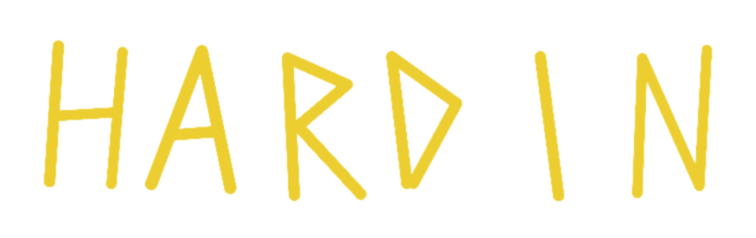
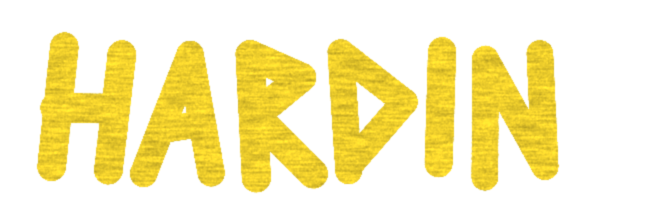
Collabs: Mizuno lettering in gritty SONDR caps, heel cross/Om, red toe with skull, black pair view
Claude-Session: https://claude.ai/code/session_0114D3hwBVCmsXTQfgBtgPvQ

Changed region(s): [[0.0299, 0.125, 0.9552, 0.875]]

diff --git a/site/public/collabs/mizuno/viewer.html b/site/public/collabs/mizuno/viewer.html
@@ -62,7 +62,7 @@
 <div id="osd"><span>SONDR × Mizuno Morelia Neo IV</span><span>By D·Hardin</span><span data-k="side">1 of 1</span></div>
 <button id="swap" type="button">Switch shoe</button>
 <div id="hint"></div>
-<script>window.SHOE_TEX={};window.SHOE_PLAIN={"len": 1.9012789726257324, "rot": 3.14159, "mirror": true, "x": -6.705713556227215e-05, "y": 0.23176820060637965, "z": -2.6492328972707924e-06, "decals": [{"tex": "art/red_tongue.png", "n": [-0.75, 0.66, 0], "c": [0.06, 0.33, -0.035], "w": 0.2, "h": 0.2, "depth": 0.08, "dot": 0.3, "r": [0.2462158203125, 0.46337890625, 0.3792724609375, 0.99951171875]}, {"tex": "art/heel_dhruv.png", "axis": "x", "n": [1, 0, 0], "c": [0.9, 0.36, -0.045], "w": 0.24, "h": 0.075, "r": [0.5465087890625, 0.76806640625, 0.7020263671875, 0.99951171875]}, {"tex": "art/red_dh.png", "n": [-0.1, 0.99, 0], "c": [-0.5, 0.005, -0.035], "w": 0.12, "h": 0.063, "depth": 0.06, "dot": 0.3, "r": [0.3814697265625, 0.73876953125, 0.5443115234375, 0.99951171875]}, {"tex": "art/red_vamp_sigs.png", "n": [-0.2, 0.98, 0], "c": [-0.72, -0.06, -0.035], "w": 0.2, "h": 0.15, "depth": 0.06, "dot": 0.3, "r": [0.0001220703125, 0.36669921875, 0.2440185546875, 0.99951171875]}], "lining": [0.07, 0.07, 0.07], "zc": -0.04, "atlas": "art/red_atlas.webp"};window.SHOE_PLAINS=[{"len": 1.9012789726257324, "rot": 3.14159, "mirror": true, "x": -6.705713556227215e-05, "y": 0.23176820060637965, "z": -2.6492328972707924e-06, "decals": [{"tex": "art/red_tongue.png", "n": [-0.75, 0.66, 0], "c": [0.06, 0.33, -0.035], "w": 0.2, "h": 0.2, "depth": 0.08, "dot": 0.3, "r": [0.2462158203125, 0.46337890625, 0.3792724609375, 0.99951171875]}, {"tex": "art/heel_dhruv.png", "axis": "x", "n": [1, 0, 0], "c": [0.9, 0.36, -0.045], "w": 0.24, "h": 0.075, "r": [0.5465087890625, 0.76806640625, 0.7020263671875, 0.99951171875]}, {"tex": "art/red_dh.png", "n": [-0.1, 0.99, 0], "c": [-0.5, 0.005, -0.035], "w": 0.12, "h": 0.063, "depth": 0.06, "dot": 0.3, "r": [0.3814697265625, 0.73876953125, 0.5443115234375, 0.99951171875]}, {"tex": "art/red_vamp_sigs.png", "n": [-0.2, 0.98, 0], "c": [-0.72, -0.06, -0.035], "w": 0.2, "h": 0.15, "depth": 0.06, "dot": 0.3, "r": [0.0001220703125, 0.36669921875, 0.2440185546875, 0.99951171875]}], "lining": [0.07, 0.07, 0.07], "zc": -0.04, "atlas": "art/red_atlas.webp"}, {"len": 1.9012789726257324, "rot": 3.14159, "mirror": false, "x": -6.705714962128253e-05, "y": 0.23176820060637965, "z": 2.6488770129724855e-06, "decals": [{"tex": "art/green_tongue.png", "n": [-0.75, 0.66, 0], "c": [0.06, 0.33, -0.035], "w": 0.2, "h": 0.2, "depth": 0.08, "dot": 0.3, "r": [0.0001220703125, 0.31689453125, 0.1766357421875, 0.99951171875]}, {"tex": "art/heel_hardin.png", "axis": "x", "n": [1, 0, 0], "c": [0.9, 0.36, -0.045], "w": 0.24, "h": 0.075, "r": [0.6680908203125, 0.76806640625, 0.8524169921875, 0.99951171875]}, {"tex": "art/green_dh.png", "n": [-0.1, 0.99, 0], "c": [-0.5, 0.005, -0.035], "w": 0.12, "h": 0.063, "depth": 0.06, "dot": 0.3, "r": [0.5294189453125, 0.71533203125, 0.6658935546875, 0.99951171875]}, {"tex": "art/green_vamp_sigs.png", "n": [-0.2, 0.98, 0], "c": [-0.72, -0.06, -0.035], "w": 0.2, "h": 0.15, "depth": 0.06, "dot": 0.3, "r": [0.1788330078125, 0.36669921875, 0.4227294921875, 0.99951171875]}, {"tex": "art/green_om_drawn.png", "axis": "x", "n": [1, 0, 0], "c": [0.94, 0.15, -0.045], "w": 0.16, "h": 0.16, "r": [0.4249267578125, 0.59033203125, 0.5272216796875, 0.99951171875]}], "lining": [0.07, 0.07, 0.07], "zc": -0.04, "atlas": "art/green_atlas.webp"}];window.SHOE_GLB_URLS=["boot.glb","boot.glb"];window.SHOE_ART=[{"pz": "art/god.webp", "nz": "art/flair.webp", "range": [-0.951, 0.951, -0.441, 0.447], "toeFade": [-5, -4.9], "darkStuds": 1}, {"pz": "art/rings.webp", "nz": "art/sondr.webp", "range": [-0.951, 0.951, -0.441, 0.447], "toeFade": [-5, -4.9], "darkStuds": 1}];</script>
+<script>window.SHOE_TEX={};window.SHOE_PLAIN={"len": 1.9012789726257324, "rot": 3.14159, "mirror": true, "x": -6.705713556227215e-05, "y": 0.23176820060637965, "z": -2.6492328972707924e-06, "decals": [{"tex": "art/red_tongue.png", "n": [-0.75, 0.66, 0], "c": [0.06, 0.33, -0.035], "w": 0.2, "h": 0.2, "depth": 0.08, "dot": 0.3, "r": [0.4639892578125, 0.46337890625, 0.5970458984375, 0.99951171875]}, {"tex": "art/heel_dhruv.png", "axis": "x", "n": [1, 0, 0], "c": [0.9, 0.355, -0.035], "w": 0.27, "h": 0.075, "r": [0.7642822265625, 0.78173828125, 0.9041748046875, 0.99951171875]}, {"tex": "art/red_dh.png", "n": [-0.25, 0.97, 0], "c": [-0.485, 0.005, -0.035], "w": 0.13, "h": 0.068, "depth": 0.06, "dot": 0.3, "r": [0.5992431640625, 0.73876953125, 0.7620849609375, 0.99951171875]}, {"tex": "art/red_vamp_sigs_bold.png", "n": [-0.15, 0.99, 0], "c": [-0.585, -0.025, -0.035], "w": 0.21, "h": 0.14, "depth": 0.06, "dot": 0.3, "r": [0.1427001953125, 0.36669921875, 0.3865966796875, 0.99951171875]}, {"tex": "art/red_cross.png", "axis": "x", "n": [1, 0, 0], "c": [0.92, 0.02, -0.03], "w": 0.29, "h": 0.54, "r": [0.3887939453125, 0.45361328125, 0.4617919921875, 0.99951171875]}, {"tex": "art/red_skull_toe.png", "n": [-0.45, 0.89, 0], "c": [-0.83, -0.075, -0.035], "w": 0.2, "h": 0.22, "depth": 0.07, "dot": 0.25, "r": [0.0001220703125, 0.31201171875, 0.1405029296875, 0.99951171875]}], "lining": [0.07, 0.07, 0.07], "zc": -0.04, "atlas": "art/red_atlas.webp"};window.SHOE_PLAINS=[{"len": 1.9012789726257324, "rot": 3.14159, "mirror": true, "x": -6.705713556227215e-05, "y": 0.23176820060637965, "z": -2.6492328972707924e-06, "decals": [{"tex": "art/red_tongue.png", "n": [-0.75, 0.66, 0], "c": [0.06, 0.33, -0.035], "w": 0.2, "h": 0.2, "depth": 0.08, "dot": 0.3, "r": [0.4639892578125, 0.46337890625, 0.5970458984375, 0.99951171875]}, {"tex": "art/heel_dhruv.png", "axis": "x", "n": [1, 0, 0], "c": [0.9, 0.355, -0.035], "w": 0.27, "h": 0.075, "r": [0.7642822265625, 0.78173828125, 0.9041748046875, 0.99951171875]}, {"tex": "art/red_dh.png", "n": [-0.25, 0.97, 0], "c": [-0.485, 0.005, -0.035], "w": 0.13, "h": 0.068, "depth": 0.06, "dot": 0.3, "r": [0.5992431640625, 0.73876953125, 0.7620849609375, 0.99951171875]}, {"tex": "art/red_vamp_sigs_bold.png", "n": [-0.15, 0.99, 0], "c": [-0.585, -0.025, -0.035], "w": 0.21, "h": 0.14, "depth": 0.06, "dot": 0.3, "r": [0.1427001953125, 0.36669921875, 0.3865966796875, 0.99951171875]}, {"tex": "art/red_cross.png", "axis": "x", "n": [1, 0, 0], "c": [0.92, 0.02, -0.03], "w": 0.29, "h": 0.54, "r": [0.3887939453125, 0.45361328125, 0.4617919921875, 0.99951171875]}, {"tex": "art/red_skull_toe.png", "n": [-0.45, 0.89, 0], "c": [-0.83, -0.075, -0.035], "w": 0.2, "h": 0.22, "depth": 0.07, "dot": 0.25, "r": [0.0001220703125, 0.31201171875, 0.1405029296875, 0.99951171875]}], "lining": [0.07, 0.07, 0.07], "zc": -0.04, "atlas": "art/red_atlas.webp"}, {"len": 1.9012789726257324, "rot": 3.14159, "mirror": false, "x": -6.705714962128253e-05, "y": 0.23176820060637965, "z": 2.6488770129724855e-06, "decals": [{"tex": "art/green_tongue.png", "n": [-0.75, 0.66, 0], "c": [0.06, 0.33, -0.035], "w": 0.2, "h": 0.2, "depth": 0.08, "dot": 0.3, "r": [0.0001220703125, 0.31689453125, 0.1766357421875, 0.99951171875]}, {"tex": "art/heel_hardin.png", "axis": "x", "n": [1, 0, 0], "c": [0.9, 0.355, -0.035], "w": 0.27, "h": 0.075, "r": [0.6507568359375, 0.78173828125, 0.8140869140625, 0.99951171875]}, {"tex": "art/green_dh.png", "n": [-0.25, 0.97, 0], "c": [-0.485, 0.005, -0.035], "w": 0.13, "h": 0.068, "depth": 0.06, "dot": 0.3, "r": [0.5120849609375, 0.71533203125, 0.6485595703125, 0.99951171875]}, {"tex": "art/green_vamp_sigs_bold.png", "n": [-0.15, 0.99, 0], "c": [-0.585, -0.025, -0.035], "w": 0.21, "h": 0.14, "depth": 0.06, "dot": 0.3, "r": [0.1788330078125, 0.36669921875, 0.4227294921875, 0.99951171875]}, {"tex": "art/green_om_bold.png", "axis": "x", "n": [1, 0, 0], "c": [0.92, 0.03, -0.03], "w": 0.29, "h": 0.5, "r": [0.4249267578125, 0.61083984375, 0.5098876953125, 0.99951171875]}], "lining": [0.07, 0.07, 0.07], "zc": -0.04, "atlas": "art/green_atlas.webp"}];window.SHOE_GLB_URLS=["boot.glb","boot.glb"];window.SHOE_PAIR_DARK=true;window.SHOE_ART=[{"pz": "art/god.webp", "nz": "art/flair.webp", "range": [-0.951, 0.951, -0.441, 0.447], "toeFade": [-5, -4.9], "darkStuds": 1, "toeRed": [-0.72, -0.66]}, {"pz": "art/rings.webp", "nz": "art/sondr.webp", "range": [-0.951, 0.951, -0.441, 0.447], "toeFade": [-5, -4.9], "darkStuds": 1}];</script>
 <script src="viewer.js"></script>
 <script>(function(){function fit(){var c=window.__shoe&&__shoe.camera;if(!c)return false;var a=innerWidth/Math.max(1,innerHeight);c.zoom=Math.min(1,a/1.4);c.updateProjectionMatrix();return true}var i=setInterval(function(){if(fit())clearInterval(i)},300);addEventListener("resize",function(){setTimeout(fit,50)});})();</script>
 </body>

diff --git a/site/public/collabs/mizuno/viewer.js b/site/public/collabs/mizuno/viewer.js
@@ -4278,11 +4278,16 @@ uniform sampler2D uArtP, uArtN;`+Object.keys(h).filter(f=>h[f]).map(f=>" uniform
 `+u.fragmentShader.replace("#include <map_fragment>",`#include <map_fragment>
   { vec3 N = normalize(vArtN); vec2 auv = vec2((vArtPos.x - uArtR.x) / (uArtR.y - uArtR.x), (vArtPos.y - uArtR.z) / (uArtR.w - uArtR.z));
     vec4 ap = texture2D(uArtP, auv), an = texture2D(uArtN, auv);
+    vec3 base0 = diffuseColor.rgb;
     // this side was mirrored by the generator: start from clean white leather before the art goes on
     if (uBlankN > 0.5) diffuseColor.rgb = mix(diffuseColor.rgb, vec3(0.93, 0.93, 0.92), smoothstep(0.02, 0.2, -N.z));
     if (uBlankP > 0.5) diffuseColor.rgb = mix(diffuseColor.rgb, vec3(0.93, 0.93, 0.92), smoothstep(0.02, 0.2, N.z));
     float fx = smoothstep(uToeF.x, uToeF.y, vArtPos.x); float zc = ${(t.zc||0).toFixed(3)}; float hf = smoothstep(0.62, 0.78, vArtPos.x); float wp = mix(smoothstep(0.0, 0.12, N.z), smoothstep(0.25, 0.5, N.z), hf) * ap.a * fx * smoothstep(-0.03, 0.03, vArtPos.z - zc), wn = mix(smoothstep(0.0, 0.12, -N.z), smoothstep(0.25, 0.5, -N.z), hf) * an.a * fx * smoothstep(-0.03, 0.03, zc - vArtPos.z);
-    diffuseColor.rgb = mix(diffuseColor.rgb, ap.rgb, wp); diffuseColor.rgb = mix(diffuseColor.rgb, an.rgb, wn);${s.darkStuds?" diffuseColor.rgb *= mix(0.12, 1.0, smoothstep(-0.40, -0.35, vArtPos.y));":""}
+    diffuseColor.rgb = mix(diffuseColor.rgb, ap.rgb, wp); diffuseColor.rgb = mix(diffuseColor.rgb, an.rgb, wn);${s.toeRed?` { float wob = 0.03 * sin(vArtPos.z * 38.0 + 1.3) + 0.018 * sin(vArtPos.y * 61.0 + vArtPos.z * 23.0) + 0.01 * sin(vArtPos.z * 140.0); float tw = (1.0 - smoothstep(${s.toeRed[0].toFixed(3)}, ${s.toeRed[1].toFixed(3)}, vArtPos.x + wob)) * smoothstep(-0.34, -0.29, vArtPos.y) * step(0.0, dot(N, N));
+      float l = dot(base0, vec3(0.299, 0.587, 0.114)); float g = fract(sin(dot(floor(vArtPos.xz * 900.0), vec2(12.9898, 78.233))) * 43758.5453);
+      float st = 0.5 + 0.5 * sin(vArtPos.z * 210.0 + vArtPos.x * 35.0 + sin(vArtPos.x * 90.0) * 2.0 + g * 2.5);
+      vec3 mk = vec3(0.52, 0.03, 0.035) * (0.62 + 4.5 * l) * (0.88 + 0.14 * st) * (0.92 + 0.12 * g);
+      diffuseColor.rgb = mix(diffuseColor.rgb, min(mk, vec3(0.95, 0.2, 0.2)), tw); }`:""}${s.darkStuds?" diffuseColor.rgb *= mix(0.12, 1.0, smoothstep(-0.40, -0.35, vArtPos.y));":""}
 ${h.uTag?`    vec3 tn = vec3(-0.66463, 0.74703, 0.01455), ty = vec3(0.74711, 0.6647, 0.0);
     float tu = (vArtPos.z + 0.142) / 0.284, tv = (dot(vArtPos, ty) - 0.322) / 0.133, td = dot(vArtPos, tn);
     if (tu > 0.0 && tu < 1.0 && tv > 0.0 && tv < 1.0 && td > 0.045 && td < 0.13 && dot(N, tn) > 0.45) { vec4 tg = texture2D(uTag, vec2(tu, tv)); diffuseColor.rgb = mix(diffuseColor.rgb, tg.rgb, tg.a); }`:""}

diff --git a/site/CLAUDE.md b/site/CLAUDE.md
@@ -126,6 +126,7 @@ If a slot says "(empty)", build that slot's default and mark it "pending" here.
 - Step 4s: Collabs adds SONDR × Converse (orange Star Player). public/collabs/converse/ = viewer.html + viewer.js (plain-mode viewer), converse.glb (Meshy v7 model), art/left_a|left_b|right_a|right_b.webp = Hardin's drawn sides from his video, projected along z in model space. Collabs page stacks the pairs one per screen (scroll down); Converse titled SONDR × Converse Star Player 76.
 - Step 4w: Chuck: blue collar opened up (generator had capped it) with a plain insole and lining inside both shoes; the red foxing stripe is one colour all round and carried cleanly across each toe (shader, toe band at local x < -0.6).
 - Step 4x: Mizuno pair (SONDR × Mizuno Morelia Neo IV) at public/collabs/mizuno/: one generated boot mesh (boot.glb) used for both feet, the left (red) mirrored; four painted sides projected per shoe (red: GOD / FLAIR, green: SONDR / rings), side art kept off the inner collar and heel curve; decals from his real ink (YOU ARE / BADDE tongue lifts, D·H marks) plus pen-drawn DHRUV / HARDIN heels, Om on the green heel, and the D·Hardin + Sondr Apparel signatures on the vamps. Builder: /home/claude/miz/viewer/build.py.
+- Step 4y: Mizuno tweaks: all lettering redrawn in the gritty SONDR logo caps (GOD, 6, FLAIR, SONDR, BE: REAL on the sides; bold yellow DHRUV / HARDIN on the heels), old generated lettering removed and refilled with clean leather from the plain boot (/home/claude/miz/repaint.py); red heel gets a bold green cross filling the heel tab, green heel a bold Om filling it; red toe padding coloured in red marker (shader, toeRed) with his skull centred on it; D·H on the red shoe only at the lace base (side D·H removed); signatures bolder; pair opens on black (SHOE_PAIR_DARK) like the Converse.
 - Step 4v: Chuck Delace is instant and in place: the lace zone of the laced model is discarded in the shader (P.cut profile) and a clean tongue mesh carrying the Mr Sondr drawing is shown instead; no delaced GLBs any more. Heel tag and back seam panel tone-matched and feathered. Collabs perf: every viewer.html pauses its render loop while scrolled off screen (requestAnimationFrame gate in <head>), pixel ratio capped at 1.5. Note: cortez/converse viewer.html + viewer.js were patched by hand for this; re-add the gate if they are rebuilt. Phones: viewers widen the camera on portrait screens (camera.zoom = min(1, aspect/1.4), script at the end of each viewer.html); About disciplines go two by two under 640px.
 - Step 4u: SONDR × Chuck Taylor All Star added as the third pair (public/collabs/chuck/): red.glb/blue.glb (Meshy v7 from the approved inner-side drawings, relief smoothed, red's misplaced top eyelets flattened), side art projected per side (art/*_pz/_nz.webp; vents moved to the base on red, blue patch reads CONVERSE), hand-lettered DINHO (red) / HERE (blue) down the back seam, tongue lettering taken from Dhruv's own photo ink; his D·Hardin + Sondr signatures on each vamp above the toe cap. Delace button (single-shoe view only, bottom left) swaps to viewer_dl.html, keeping the same shoe open. Laced view shows the Mr Sondr faces between the laces (lace ridge height baked into uv1, art drawn only in the valleys); white CONVERSE ALL★STAR heel tag (red_dl/blue_dl.glb: laces pressed flat) showing the Mr Sondr faces on the tongues from his photo. Source pipeline: /home/claude/chuck/viewer/build.py + cfg.json.
 - Step 4t: Cortez rebuilt like the Converse: public/collabs/cortez/ = viewer.html + viewer.js, left.glb/right.glb (Higgsfield Meshy v7 models, one per shoe, from approved hand-drawn product images), red_in.webp (red outer side, projected on local -z), SONDR/D·Hardin signature decals and hand-drawn SONDR logo decals (logo_blue/logo_red). Old Cortez viewer removed. Cortez opens on white, single shoe goes dark; Converse (SHOE_PAIR_DARK) opens dark, single shoe light. Menu: Shoe Collaborations, Projects ordered shortest→longest. Artsy black (yellow title, red titles); Hustler back to white with red arc lettering.
